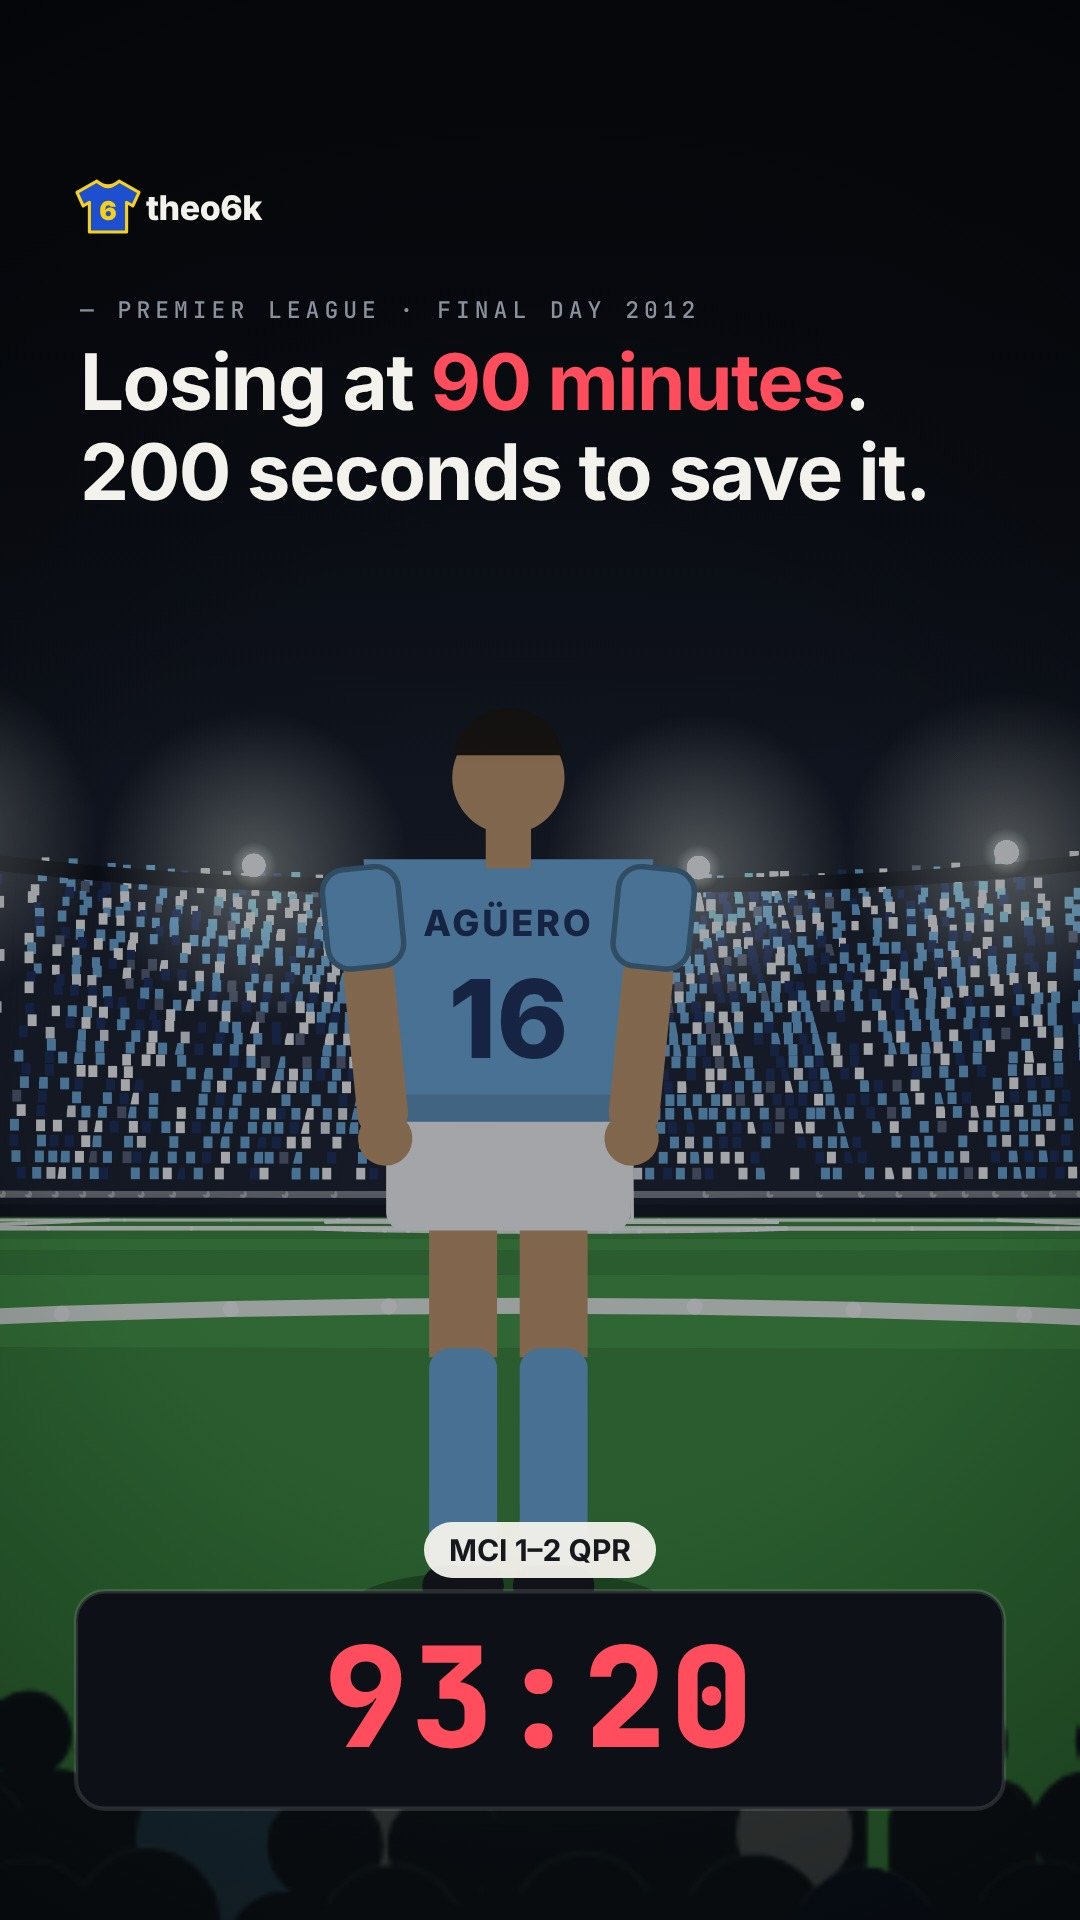
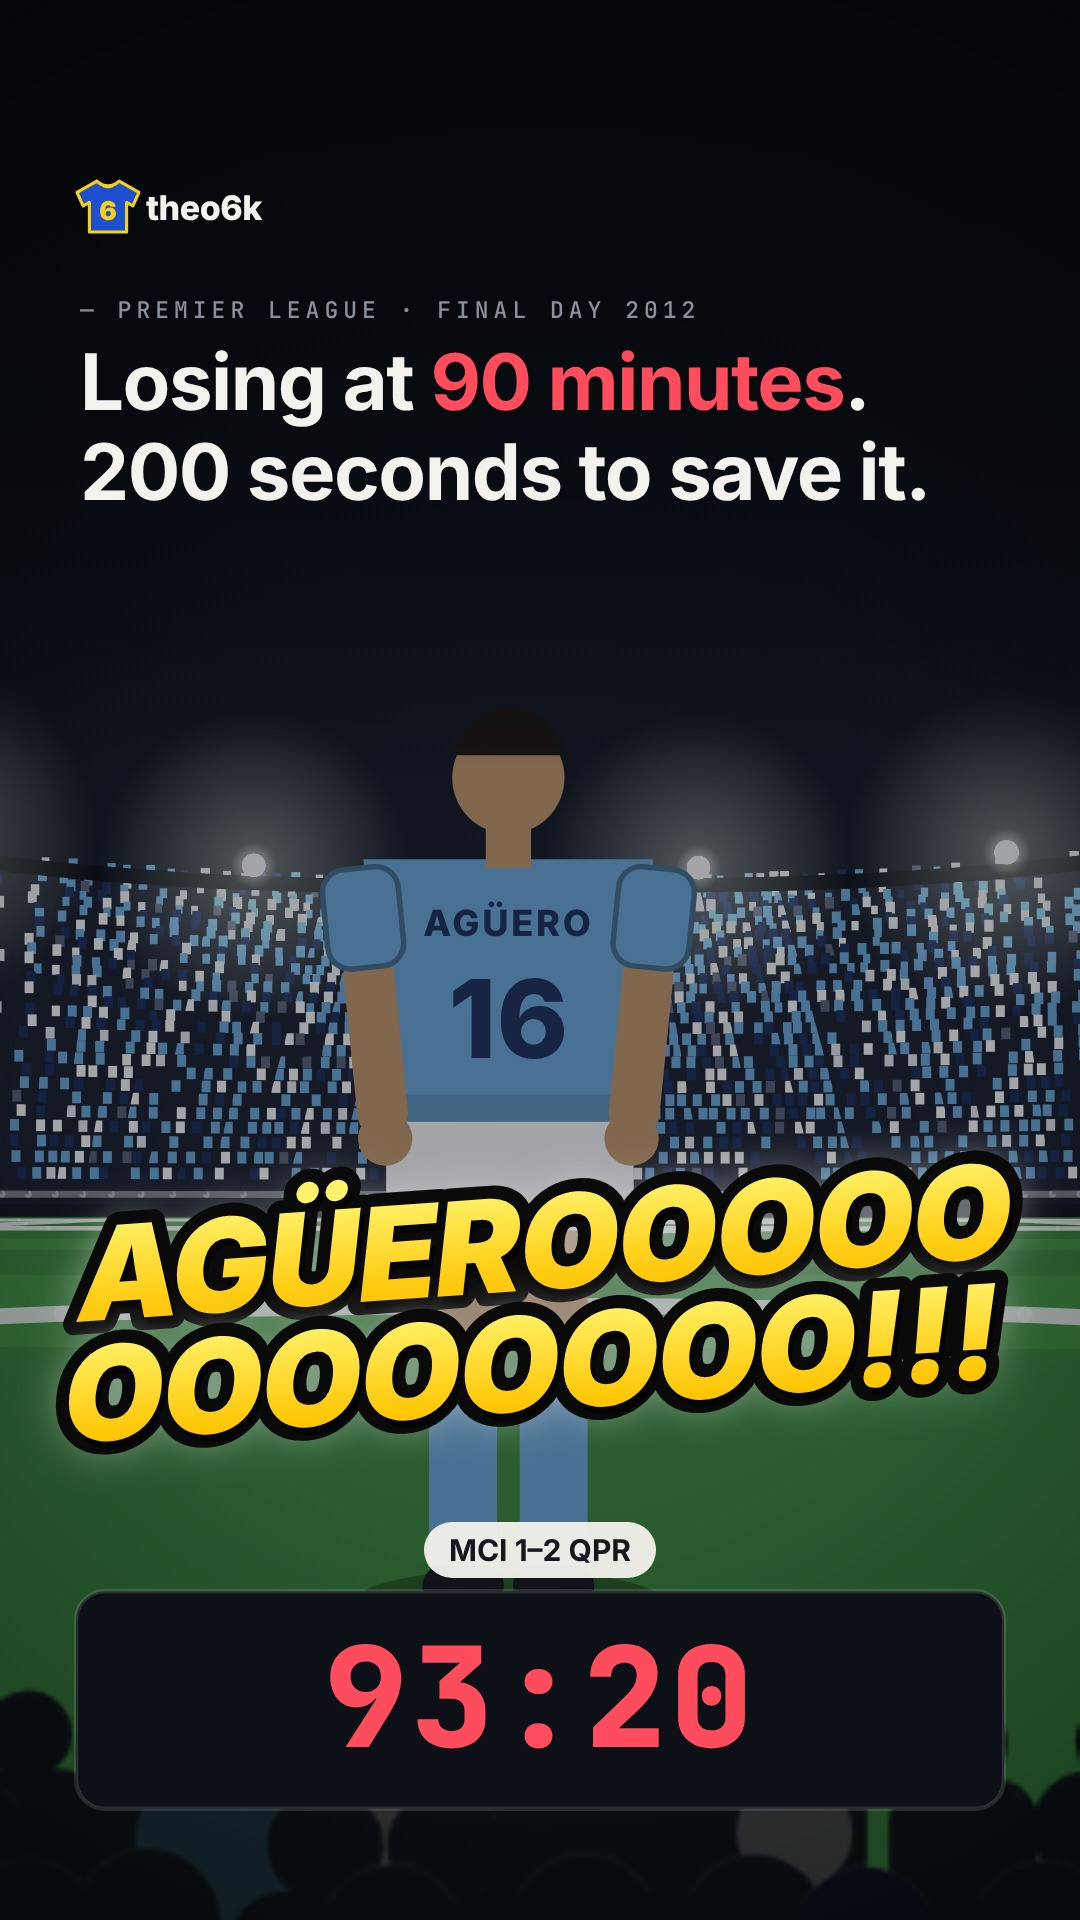
Shout card (viral thumbnail text); AGÜEROOOO!!! on the Agüero thumbnail
Claude-Session: https://claude.ai/code/session_01XCfSYSe35JQT7i2iWhcNB7

Changed region(s): [[0.0306, 0.5938, 0.9472, 0.7812]]

diff --git a/engine/engine.js b/engine/engine.js
@@ -2423,6 +2423,32 @@ CARDS.redcard = function (c, ct, cx, cy) {
 };
 CARDS.redcard.noSlide = true;
 
+// Viral "shout" text (meme-thumbnail style): heavy slanted caps, yellow fill, thick black outline, white glow, tilted,
+// popping in with an overshoot. "\n" splits lines; each line is auto-fitted to `w` (default 1000px) up to `size`.
+// text, size (max px, default 190), color, stroke, rot (radians, default -0.07), skew (default -0.18), w, glow (colour or false)
+CARDS.shout = function (c, ct, cx, cy) {
+  const k = eBack(pr(ct, 0, 0.35)), a = pr(ct, 0, 0.12);
+  if (k <= 0) return;
+  const lines = String(c.text).split('\n'), maxW = c.w || 1000, gap = c.gap != null ? c.gap : 0.92;
+  const sizes = lines.map(l => { font(900, 100, 'Inter', '-2px'); return Math.min(c.size || 190, 100 * maxW / Math.max(1, ctx.measureText(l).width)); });
+  const total = sizes.reduce((m, z) => m + z * gap, 0);
+  const sh = ct < 0.6 ? Math.sin(ct * 60) * 6 * (1 - ct / 0.6) : 0;
+  ctx.save(); ctx.globalAlpha *= a; ctx.translate(cx + sh, cy); ctx.rotate(c.rot != null ? c.rot : -0.07);
+  ctx.scale(0.4 + 0.6 * k, 0.4 + 0.6 * k); ctx.transform(1, 0, c.skew != null ? c.skew : -0.18, 1, 0, 0);
+  ctx.textAlign = 'center'; ctx.textBaseline = 'alphabetic'; ctx.lineJoin = 'round';
+  let y = -total / 2;
+  lines.forEach((l, i) => {
+    const z = sizes[i]; y += z * gap; font(900, z, 'Inter', '-2px');
+    if (c.glow !== false) { ctx.save(); ctx.shadowColor = c.glow || 'rgba(255,255,255,0.75)'; ctx.shadowBlur = z * 0.35; ctx.strokeStyle = 'rgba(0,0,0,0)'; ctx.fillStyle = c.stroke || '#0a0a0a'; ctx.fillText(l, 0, y); ctx.restore(); }
+    ctx.lineWidth = z * 0.2; ctx.strokeStyle = c.stroke || '#0a0a0a'; ctx.strokeText(l, 0, y);   // fat outline
+    ctx.fillStyle = 'rgba(0,0,0,0.55)'; ctx.fillText(l, z * 0.04, y + z * 0.06);                  // drop shadow inside the outline
+    const g = ctx.createLinearGradient(0, y - z * 0.8, 0, y); g.addColorStop(0, c.color2 || '#fff36b'); g.addColorStop(1, c.color || '#ffc400');
+    ctx.fillStyle = g; ctx.fillText(l, 0, y);
+  });
+  ctx.restore();
+};
+CARDS.shout.noSlide = true;
+
 // Chalkboard tally: a wooden-framed blackboard; chalk tally marks (gates of five) draw themselves one by one.
 // n marks, done already drawn, next one at newAt/newT; title and score in chalk handwriting.
 function chalkLine(x1, y1, x2, y2, k, seed, w) {

diff --git a/CLAUDE.md b/CLAUDE.md
@@ -231,6 +231,9 @@ Built so far from the idea list (reuse them):
   bring a comparison in on the line *before* its payoff word (e.g. the points tape on "The final day", not on "level on points").
 - **Red card:** the `redcard` card. A referee's arm swings up from the bottom holding a glowing red card, with a shake (`dx` = sideways offset, default 180;
   `label` sits above the card, e.g. "55' Barton"). Put the sent-off player on the other side of the frame. Example: `videos/aguero-9320` beat 4.
+- **Shout text (viral thumbnail style):** the `shout` card. Heavy slanted caps, yellow gradient, fat black outline, white glow, tilted, pops in with a shake.
+  `text` ("\n" for lines, each auto-fitted to `w`, default 1000), `size` (max), `color`/`color2`, `stroke`, `rot`, `skew`, `glow`. Use it on thumbnails
+  ("AGÜEROOOO!!!", `videos/aguero-9320/thumb`) or for a big shouted moment in a video.
 - **Hooped kits:** `kit.hoops: [c1, c2]` gives horizontal bands (QPR, Celtic).
 - **Headers:** `hops` take `at`/`lag` like everything else and now work on any player (no `action` needed). For a header, time the cross `ballpath`
   to end on the word, a hop peaking there and the header `ballpath` starting from the head. Film it side-on or 3/4 so the ball isn't hidden by the scorer.
